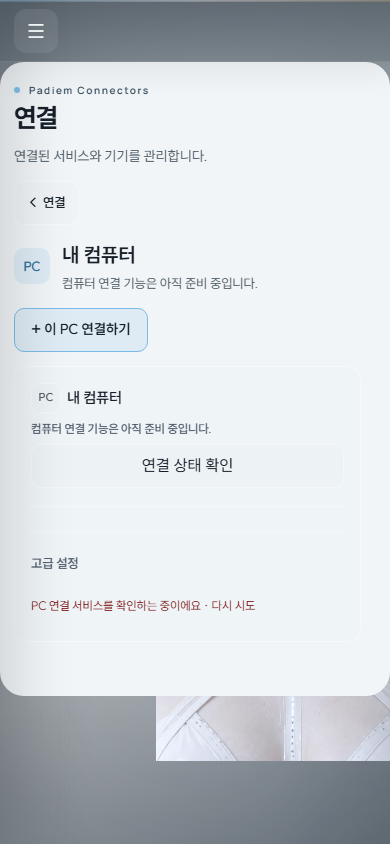
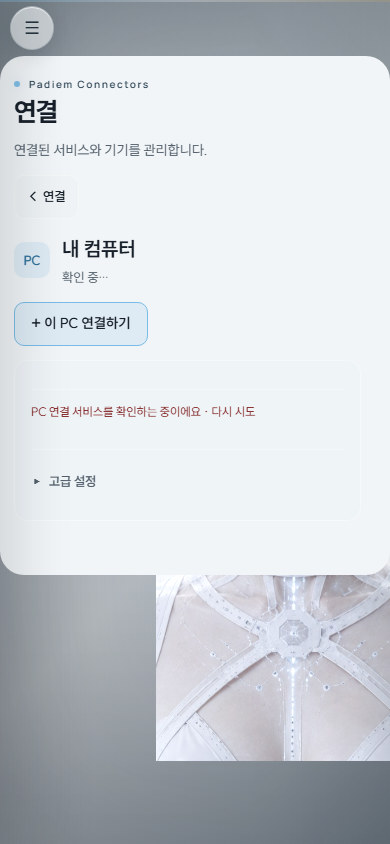
fix(connector): 타일·전용 페이지는 4상태 어휘만, 컴퓨터 페이지 중복 머리·큰 버튼 정리, 390 설명 줄·⋯ 메뉴 픽스처 확인

diff --git a/apps/padiem-chat/static/connector-pages.js b/apps/padiem-chat/static/connector-pages.js
@@ -30,19 +30,23 @@
     return String(card.dataset.serviceMark || "");
   }
 
-  function statusSource(card) {
-    return card.querySelector("#clawComputerLiveStatus")
-      || card.querySelector("[data-connector-workspace]")
-      || card.querySelector(".capability-workspace")
-      || card.querySelector("[data-connector-support]")
-      || card.querySelector(".capability-read")
-      || card.querySelector(".capability-soon");
+  // Every tile and detail page speaks only the shared four-state vocabulary.
+  // The card's own dataset is the state owner; this map translates it and
+  // never copies a raw sentence (no “workspace”, no long server prose).
+  function stateOf(card) {
+    if (card.querySelector(".capability-soon")) return "soon";
+    const raw = String(card.dataset.connectorStatus || "").toLowerCase();
+    if (raw === "connected") return "connected";
+    if (raw === "not_connected" || raw === "disconnected") return "disconnected";
+    if (raw === "connecting" || raw === "loading" || raw === "preparing" || raw === "") return "checking";
+    return "failed";
   }
 
   function statusText(card) {
-    const node = statusSource(card);
-    if (!node || node.hidden) return "";
-    return node.textContent.trim();
+    const state = stateOf(card);
+    if (state === "soon") return "곧 지원돼요";
+    const vocab = window.PadiemConnectorVocabulary;
+    return vocab ? (vocab.status(state) || "") : "";
   }
 
   function syncTile(card) {
@@ -78,8 +82,9 @@
     const summary = document.createElement("summary");
     summary.className = "pc-connector-advanced-summary";
     summary.textContent = "고급 설정";
-    alternate.parentNode.insertBefore(advanced, alternate);
+    // Order: page head → connect → PC list → advanced at the very bottom.
     advanced.append(summary, alternate);
+    card.appendChild(advanced);
     card.dataset.advancedGrouped = "1";
   }
 
@@ -110,8 +115,28 @@
     const actions = byId("connectorDetailActions");
     const computer = card.dataset.connector === "computer" || card.id === "connectorComputerCard";
     if (actions) actions.hidden = !computer;
+    syncDetailRetry(card);
     if (computer) groupAdvanced(card);
     setHash("#connectors/" + connectorId(card));
+  }
+
+  function syncDetailRetry(card) {
+    let link = byId("connectorDetailRetry");
+    const failed = stateOf(card) === "failed";
+    if (!failed) { if (link) link.remove(); return; }
+    if (link) return;
+    const actions = byId("connectorDetailActions");
+    if (!actions) return;
+    link = document.createElement("button");
+    link.type = "button";
+    link.id = "connectorDetailRetry";
+    link.className = "connector-detail-retry";
+    link.textContent = "다시 확인";
+    link.addEventListener("click", () => {
+      const original = card.querySelector("#clawComputerDeviceStatusButton");
+      if (original) original.click();
+    });
+    actions.appendChild(link);
   }
 
   function closeDetail(keepHash) {
@@ -176,6 +201,7 @@
       const status = byId("connectorDetailStatus");
       const text = statusText(detailed.card);
       if (status && status.textContent !== text) status.textContent = text;
+      syncDetailRetry(detailed.card);
       return;
     }
     const view = byId(VIEW_ID);
@@ -183,7 +209,7 @@
   });
   const start = () => {
     const host = byId(VIEW_ID) || document.body;
-    observer.observe(host, { childList: true, subtree: true, characterData: true, attributes: true, attributeFilter: ["hidden"] });
+    observer.observe(host, { childList: true, subtree: true, characterData: true, attributes: true, attributeFilter: ["hidden", "data-connector-status"] });
     makeTiles();
     handleHash();
   };

diff --git a/apps/padiem-chat/static/connector-pages.css b/apps/padiem-chat/static/connector-pages.css
@@ -215,3 +215,62 @@
     align-items: flex-start;
   }
 }
+
+/* The computer page owns the head: the moved card contributes only its PC
+ * list and advanced lane, never a second title, status line or big button. */
+.connector-detail-body .capability-card::before,
+.connector-detail-body .capability-card > strong,
+.connector-detail-body .capability-card > .capability-workspace,
+.connector-detail-body .capability-card > .capability-read,
+.connector-detail-body .capability-card > .capability-read-state,
+.connector-detail-body #clawComputerDeviceStatusButton {
+  display: none !important;
+}
+
+.connector-detail-actions {
+  display: flex;
+  align-items: center;
+  gap: 10px;
+  flex-wrap: wrap;
+}
+
+.connector-detail-retry {
+  border: 0;
+  background: transparent;
+  color: var(--muted, #5b6672);
+  font: inherit;
+  font-size: 13px;
+  text-decoration: underline;
+  cursor: pointer;
+  min-height: 44px;
+}
+
+/* The advanced lane shows its fold state: ▸ closed, ▾ open, closed by default. */
+.pc-connector-advanced-summary::before {
+  content: "▸";
+  margin-right: 6px;
+}
+
+.pc-connector-advanced[open] > .pc-connector-advanced-summary::before {
+  content: "▾";
+}
+
+/* Phone widths: the Claw tile keeps its one-line description instead of
+ * hiding it, and the card grows to fit the name, the description and the
+ * switch without any of them sitting on another. */
+@media (max-width: 720px) {
+  .app-shell[data-state="claw"] .conversation .claw-home-card .claw-workspace-starter small {
+    display: block !important;
+    font-size: 10px;
+    line-height: 1.35;
+    opacity: .9;
+  }
+  .app-shell[data-state="claw"] .claw-workspace[data-view="general"] ~ .conversation .claw-home-card {
+    min-height: 186px;
+  }
+  .app-shell[data-state="claw"] .claw-workspace[data-view="general"] ~ .conversation .claw-home-card .starter span {
+    display: flex;
+    flex-direction: column;
+    gap: 2px;
+  }
+}

diff --git a/apps/padiem-chat/tests/test_connector_pages_261029.py b/apps/padiem-chat/tests/test_connector_pages_261029.py
@@ -33,10 +33,22 @@ def test_the_module_moves_the_card_instead_of_rebuilding_it():
     assert "/api/" not in PAGES
 
 
-def test_the_tile_reads_the_one_status_owner():
-    # Live writer first, server workspace state second, capability line last.
-    order = PAGES.index("#clawComputerLiveStatus")
-    assert order < PAGES.index("[data-connector-workspace]") < PAGES.index(".capability-read")
+def test_the_tile_speaks_only_the_shared_four_state_vocabulary():
+    # The card's dataset is the state owner; the tile maps it to the shared
+    # constant and never copies a raw server sentence (no “워크스페이스”).
+    assert 'card.dataset.connectorStatus' in PAGES
+    assert 'return "곧 지원돼요"' in PAGES
+    assert "워크스페이스" not in PAGES
+    for state in ('"connected"', '"not_connected"', '"connecting"', '"failed"'):
+        assert state in PAGES
+
+
+def test_the_computer_page_folds_the_card_head_and_offers_a_small_retry():
+    assert ".connector-detail-body .capability-card > strong" in CSS
+    assert ".connector-detail-body #clawComputerDeviceStatusButton" in CSS
+    assert "connectorDetailRetry" in PAGES
+    assert 'link.textContent = "다시 확인"' in PAGES
+    assert 'content: "\25B8"' in CSS and 'content: "\25BE"' in CSS
 
 
 def test_the_tile_keeps_one_line_and_the_page_owns_the_full_card():
